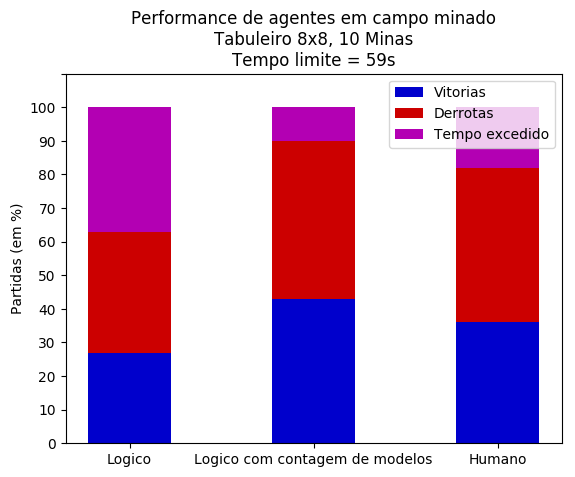
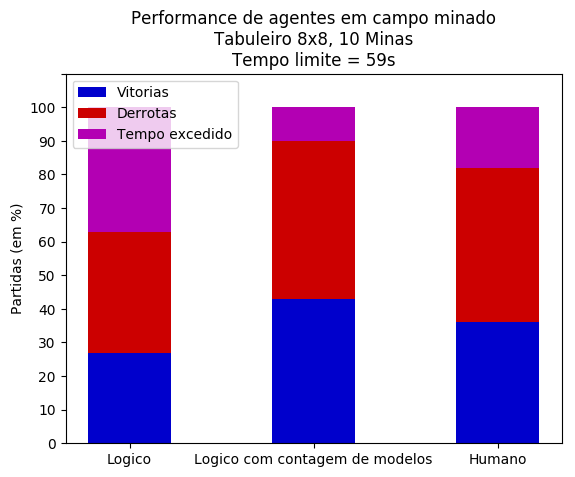
make plot legend always be in top left corner

Changed region(s): [[0.68, 0.1761, 0.9757, 0.3229], [0.1183, 0.1761, 0.4139, 0.3229]]

diff --git a/plot.py b/plot.py
@@ -34,8 +34,10 @@ def plot(board_spec,
       format(board_spec[0], board_spec[1], n_mines, tl_spec))
   plt.xticks(indices, labels)
   plt.yticks(np.arange(111, step=10), np.arange(101, step=10))
-  plt.legend((p_wins[0], p_losses[0], p_tles[0]), ('Vitorias', 'Derrotas',
-                                                   'Tempo excedido'))
+  plt.legend(
+      (p_wins[0], p_losses[0], p_tles[0]), ('Vitorias', 'Derrotas',
+                                            'Tempo excedido'),
+      loc='upper left')
 
   if path is None:
     path = '.'
